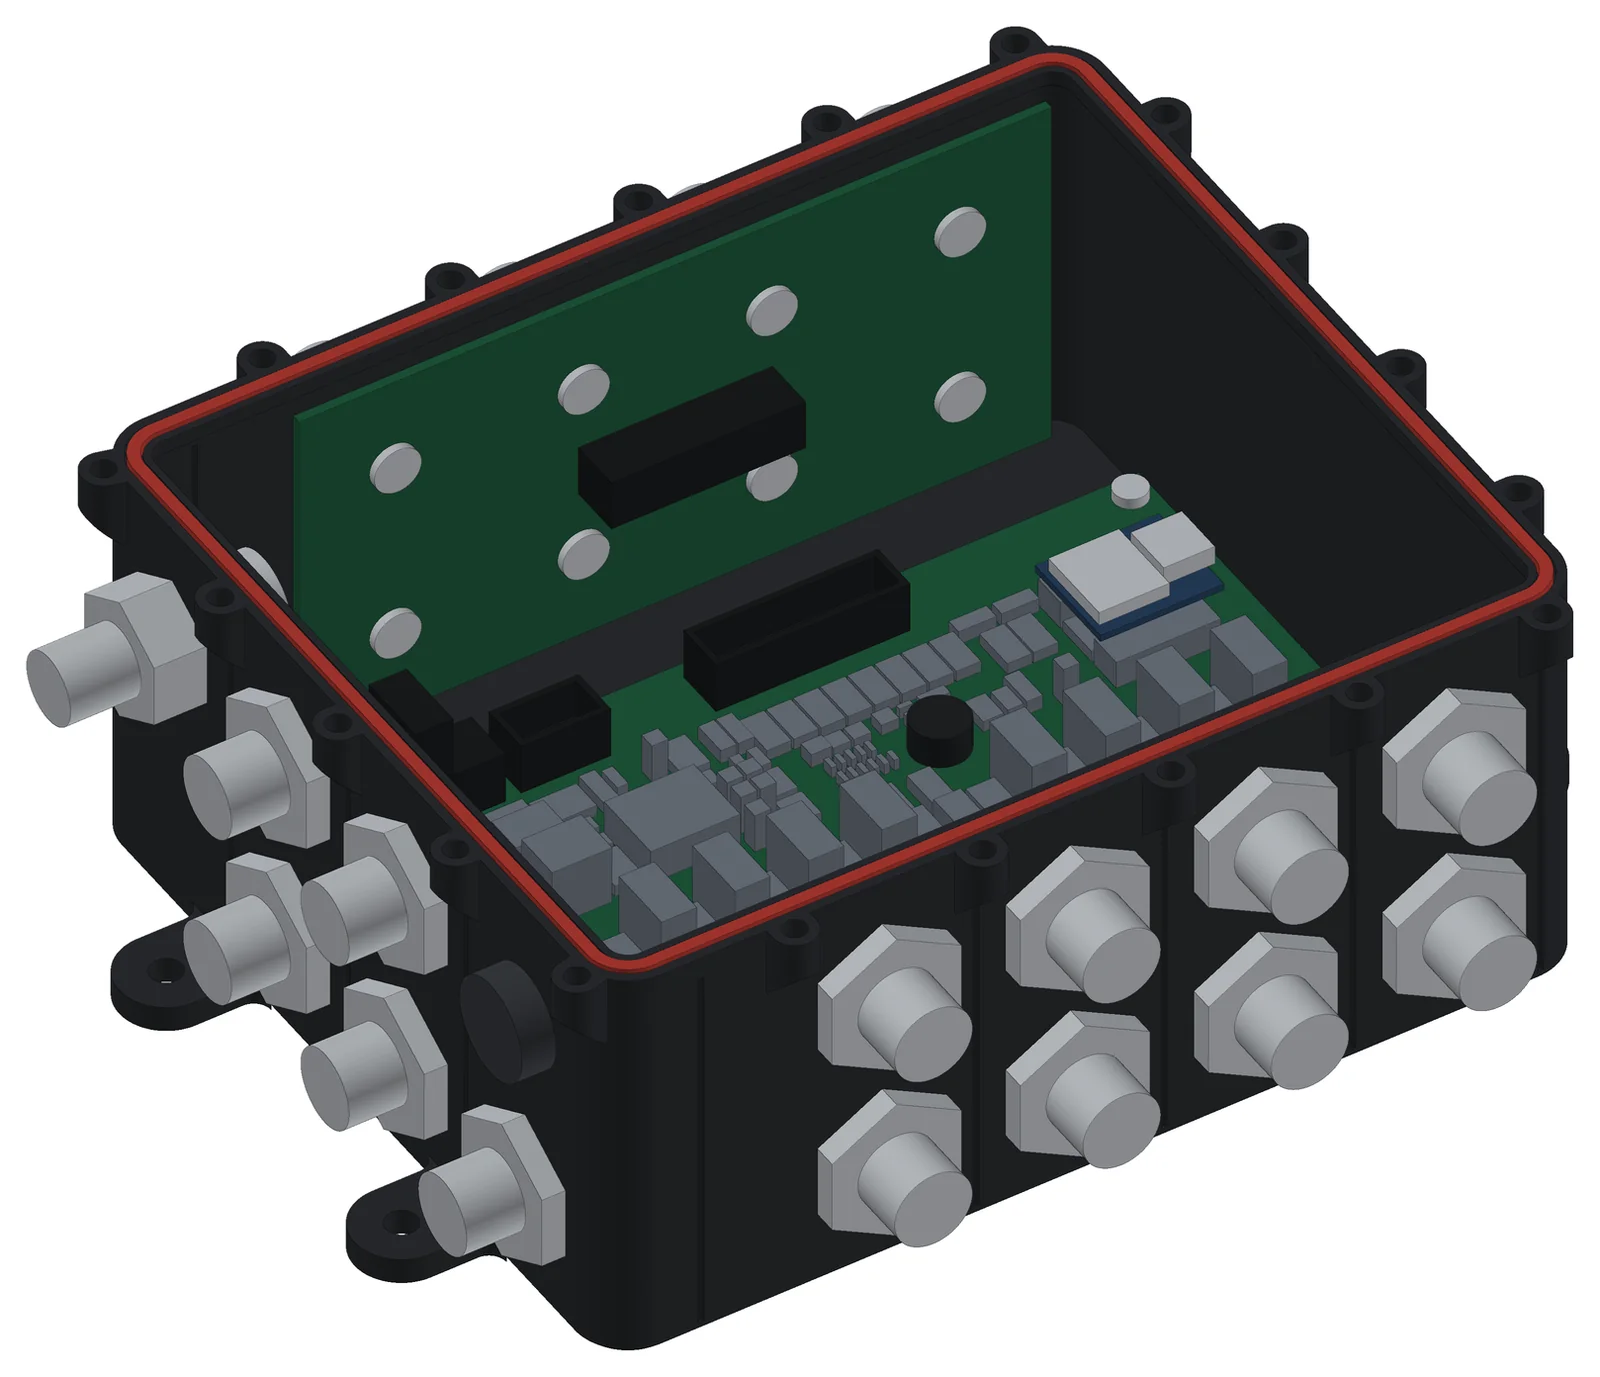
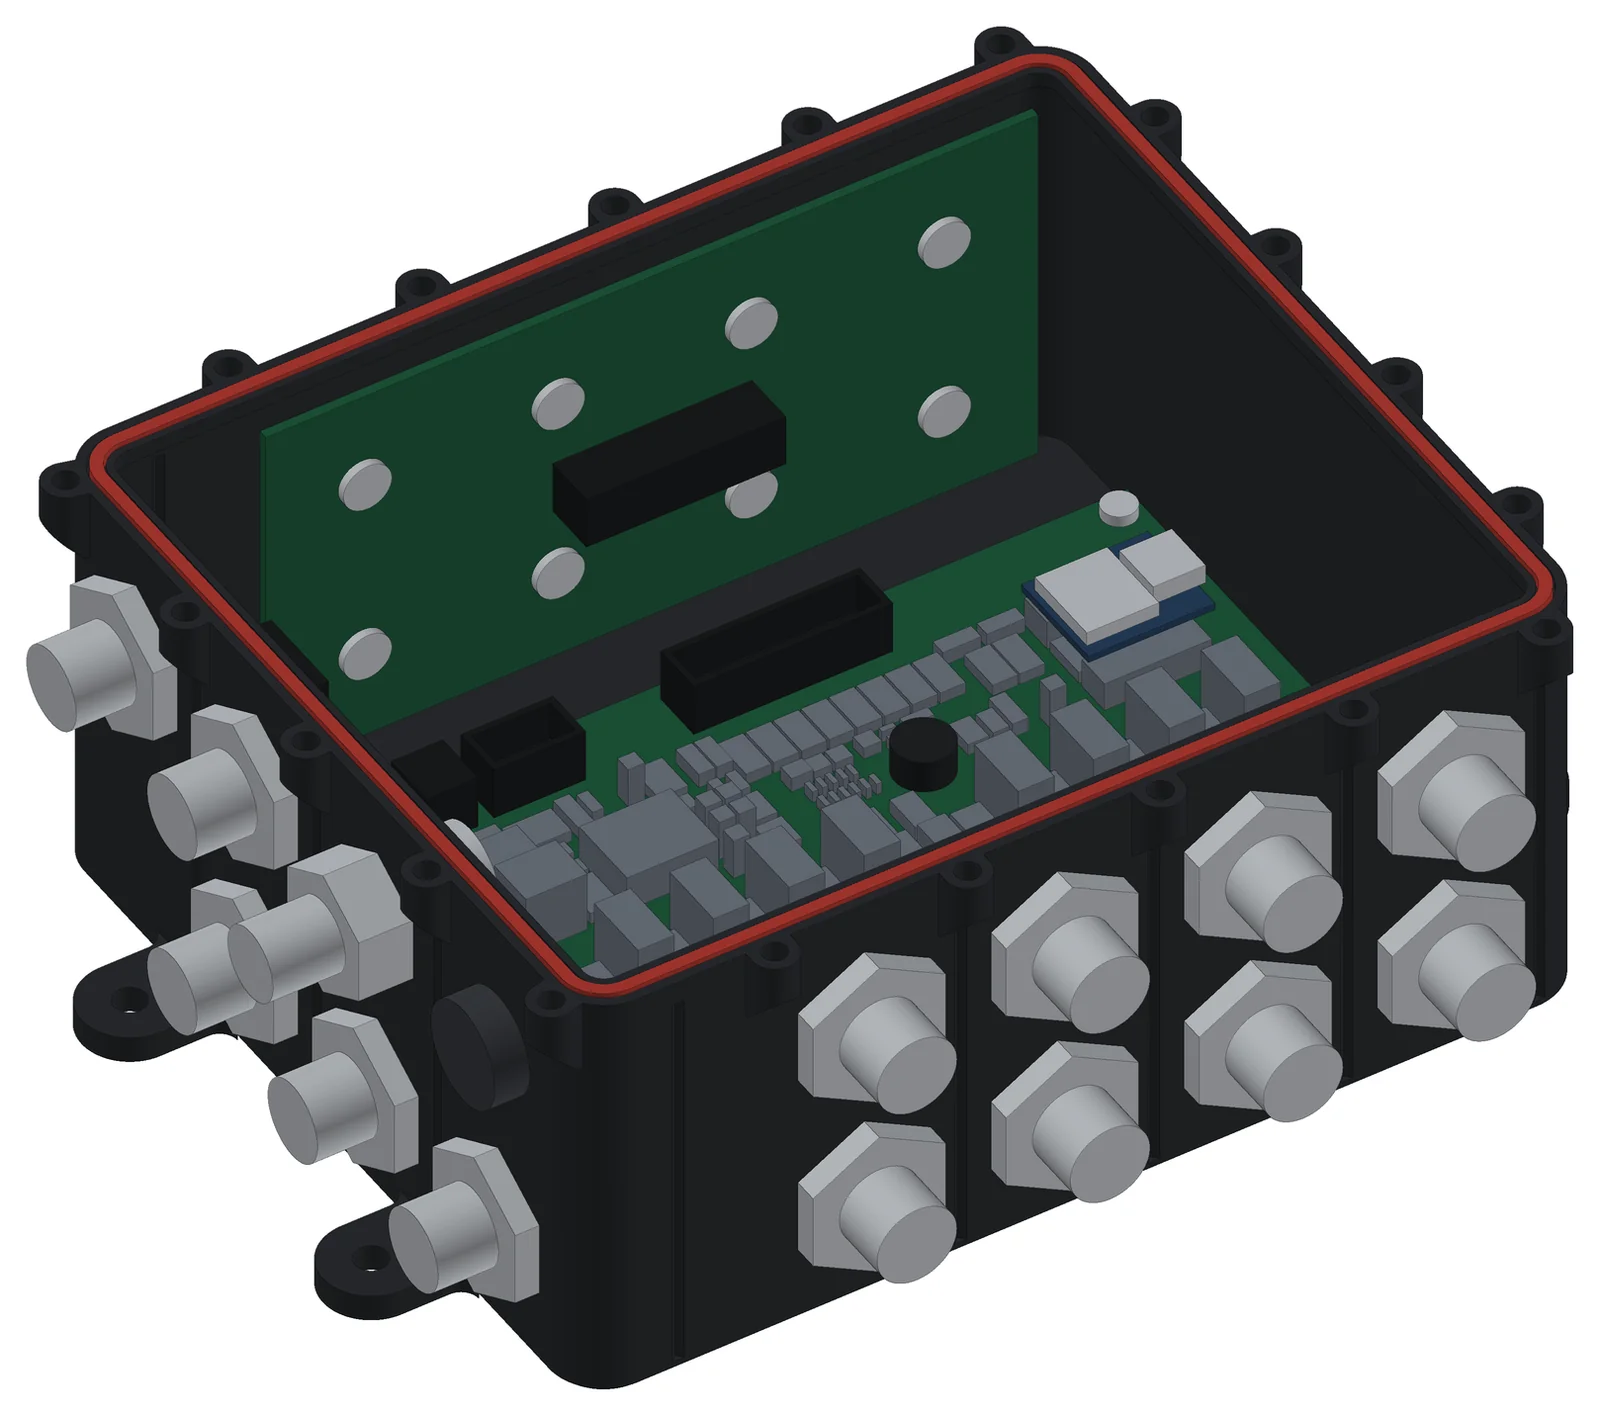
Fertigation page: final Rev C box renders, service-end port order, FIO-8 box 77 mm tall

diff --git a/docs/fertigation/fio-8.html b/docs/fertigation/fio-8.html
@@ -154,7 +154,7 @@ footer .logo { height: 28px }
     <h1>FIO-8 fertigation board</h1>
     <p class="lead">The FIO-8 drives up to eight nutrient dosing pumps from one flow meter. Ten times a second it turns the recipe into a speed for every pump. Each pump output is electrically isolated, and the board stops dosing on its own the moment a reading or a wire looks wrong. It connects to GCU Cloud over Wi-Fi on its own, can report to an on-site GCU Manager, and is set up and run from the GCU Setup app over Bluetooth. Its RS-485 port reads and powers the water-quality probes. It comes in a sealed wall-mount box: every pump, sensor and input plugs in on a standard M12 connector, so there are no terminals to wire and no cabinet to build.</p>
     <figure class="hero-fig">
-      <img src="img/revc-fio8-closed.webp" width="1600" height="1199" alt="Render of the FIO-8 in its sealed black wall-mount box with a clear cover: rows of M12 connectors on the walls, the circuit board visible through the cover">
+      <img src="img/revc-fio8-closed.webp" width="1600" height="1234" alt="Render of the FIO-8 in its sealed black wall-mount box with a clear cover: rows of M12 connectors on the walls, the circuit board visible through the cover">
       <figcaption>Rev C, rendered from the design. Pump ports on the front wall, sensor and input ports on the back, power, sensor bus, E-stop and the contactor and flush ports together on one end. The board and its lights show through the clear cover.</figcaption>
     </figure>
   </div>
@@ -402,7 +402,7 @@ footer .logo { height: 28px }
     <div class="walls" role="group" aria-label="Port layout of the three connector walls, seen from outside">
       <div class="wall"><h3>Front wall · pumps</h3><div class="ports"><span class="port">PUMP 1</span><span class="port">PUMP 2</span><span class="port">PUMP 3</span><span class="port">PUMP 4</span><span class="port">PUMP 5</span><span class="port">PUMP 6</span><span class="port">PUMP 7</span><span class="port">PUMP 8</span></div></div>
       <div class="wall"><h3>Back wall · sensors and inputs</h3><div class="ports"><span class="port">FLOW A</span><span class="port">FLOW B</span><span class="port">4–20 IN 1</span><span class="port">4–20 IN 2</span><span class="port">IN 1·2</span><span class="port">IN 3·4</span><span class="port">IN 5·6</span><span class="port">IN 7·8</span></div></div>
-      <div class="wall"><h3>Service end</h3><div class="ports"><span class="port pwr">24 V DC</span><span class="port">BUS</span><span class="port">SENSOR BUS</span><span class="port none">vent</span><span class="port none">–</span><span class="port">E-STOP</span><span class="port">CON&shy;TACTOR</span><span class="port">FLUSH</span></div></div>
+      <div class="wall"><h3>Service end</h3><div class="ports"><span class="port">BUS</span><span class="port">SENSOR BUS</span><span class="port pwr">24 V DC</span><span class="port none">vent</span><span class="port none">–</span><span class="port">E-STOP</span><span class="port">CON&shy;TACTOR</span><span class="port">FLUSH</span></div></div>
     </div>
     <p class="muted" style="font-size:14px">Each wall as seen from outside. The fourth wall is blank, so the box can hang with no connector facing up.</p>
     <table class="tbl">
@@ -419,8 +419,8 @@ footer .logo { height: 28px }
       </tbody>
     </table>
     <div class="pair">
-      <figure class="map"><img src="img/revc-fio8-service.webp" width="1434" height="685" alt="Render of the service end of the FIO-8 box: power, the two bus ports and the vent in the top row, E-stop, contactor and flush in the bottom row"><figcaption>The service end: power, sensor bus and vent above; E-stop, contactor and flush below.</figcaption></figure>
-      <figure class="map"><img src="img/revc-fio8-open.webp" width="1600" height="1377" alt="Render of the FIO-8 box with the cover off: the main board lying flat and a connector board standing behind each wall of ports"><figcaption>Cover off. Each wall's ports sit on a connector board that links to the main board with a keyed ribbon cable.</figcaption></figure>
+      <figure class="map"><img src="img/revc-fio8-service.webp" width="1434" height="693" alt="Render of the service end of the FIO-8 box: the two bus ports, power and the vent in the top row, E-stop, contactor and flush in the bottom row"><figcaption>The service end: the two bus ports, power and the vent above; E-stop, contactor and flush below.</figcaption></figure>
+      <figure class="map"><img src="img/revc-fio8-open.webp" width="1600" height="1416" alt="Render of the FIO-8 box with the cover off: the main board lying flat and a connector board standing behind each wall of ports"><figcaption>Cover off. Each wall's ports sit on a connector board that links to the main board with a keyed ribbon cable.</figcaption></figure>
     </div>
   </section>
 
@@ -484,7 +484,7 @@ footer .logo { height: 28px }
         <tr><td>Processor</td><td>Plug-in Seeed XIAO ESP32-S3 (Wi-Fi, Bluetooth LE), antenna inside the box.</td></tr>
         <tr><td>Board</td><td>132 × 84 mm, 6 layers, plus four small connector boards.</td></tr>
         <tr><td>Connectors</td><td>M12 A-coded 4-pin on all 21 field ports; M12 T-coded for the 24 V supply.</td></tr>
-        <tr><td>Enclosure</td><td>Sealed wall-mount box, black ASA with a clear polycarbonate cover on a gasket, designed for IP65. 167 × 141 × 76 mm.</td></tr>
+        <tr><td>Enclosure</td><td>Sealed wall-mount box, black ASA with a clear polycarbonate cover on a gasket, designed for IP65. 167 × 141 × 77 mm.</td></tr>
       </tbody>
     </table>
     <div class="note prose"><b>Water quality on the sensor port</b><span>The companion FIO-WQ board, below, measures pH and EC on the board itself, each channel in its own isolated circuit, and plugs into the FIO-8's RS-485 port at its own address on the FIO-8's 24 V.</span></div>
@@ -589,7 +589,7 @@ footer .logo { height: 28px }
     <header><span class="kicker">Enclosures</span><h2>Sealed wall-mount boxes</h2></header>
     <p class="prose">Both boards share one box family: a black ASA base printed solid, and a flat clear polycarbonate cover that sits on a silicone gasket under a ring of stainless screws, so the board and its lights stay visible. Every M12 connector seals against the wall where it passes through, a membrane vent lets the box breathe without letting water in, and there is no button, no programming port and no hatch to leak. The box screws to a wall or a panel through four lugs outside the sealed space. Port names go on as labels.</p>
     <div class="pair">
-      <figure class="map"><img src="img/revc-fio8-closed.webp" width="1600" height="1199" alt="Render of the FIO-8 box, closed"><figcaption>FIO-8 box: 22 M12 ports on three walls.</figcaption></figure>
+      <figure class="map"><img src="img/revc-fio8-closed.webp" width="1600" height="1234" alt="Render of the FIO-8 box, closed"><figcaption>FIO-8 box: 22 M12 ports on three walls.</figcaption></figure>
       <figure class="map"><img src="img/revc-fiowq-closed.webp" width="1073" height="854" alt="Render of the FIO-WQ box, closed"><figcaption>FIO-WQ box: six M12 ports and two BNC jacks.</figcaption></figure>
     </div>
     <table class="tbl">
@@ -597,7 +597,7 @@ footer .logo { height: 28px }
         <tr><td>Protection</td><td>Designed for IP65: gasketed cover, sealed connectors, membrane vent. The rating is confirmed by test before release.</td></tr>
         <tr><td>Material</td><td>Black ASA base; 3 mm clear polycarbonate cover; silicone gasket; stainless screws into brass inserts.</td></tr>
         <tr><td>Mounting</td><td>Four screw lugs, reachable with the cover on. Mount with the blank wall up, so no connector faces the sky.</td></tr>
-        <tr><td>FIO-8 box</td><td>167 × 141 × 76 mm (205 mm over the lugs).</td></tr>
+        <tr><td>FIO-8 box</td><td>167 × 141 × 77 mm (205 mm over the lugs).</td></tr>
         <tr><td>FIO-WQ box</td><td>141 × 114 × 68 mm (173 mm over the lugs).</td></tr>
         <tr><td>Service</td><td>Firmware updates arrive over the air. Unused ports take a screw cap.</td></tr>
       </tbody>
